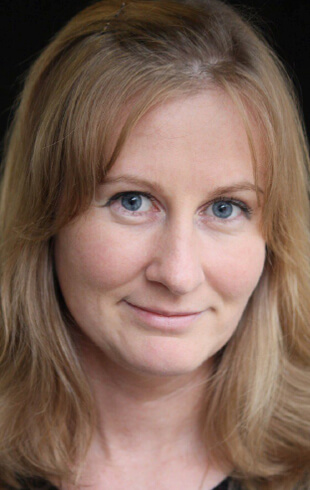
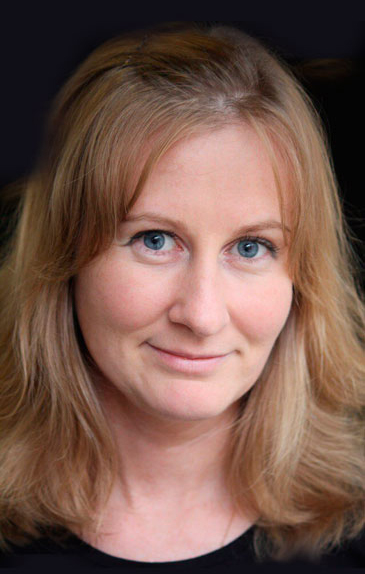
Update colors
+ update Lapina’s photo

diff --git a/src/less/main.less b/src/less/main.less
@@ -29,8 +29,8 @@ a.btn:hover {
   border-width: 60px 50vw 0 50vw;
   border-color: #000000 transparent transparent transparent;
   line-height: 0px;
-  _border-color: #000000 #ffffff #ffffff #ffffff;
-  _filter: progid:DXImageTransform.Microsoft.Chroma(color='#ffffff');
+  _border-color: #000000 #000000 #000000 #000000;
+  _filter: progid:DXImageTransform.Microsoft.Chroma(color='#000000');
   margin-bottom: -60px;
   z-index: 700;
   position: relative;
@@ -45,9 +45,9 @@ a.btn:hover {
   height: 0;
   border-style: solid;
   border-width: 0 50vw 60px 0px;
-  border-color: transparent transparent #ffffff transparent;
+  border-color: transparent transparent #000000 transparent;
   line-height: 0px;
-  _border-color: #000000 #000000 #ffffff #000000;
+  _border-color: #000000 #000000 #000000 #000000;
   _filter: progid:DXImageTransform.Microsoft.Chroma(color='#000000');
   z-index: 600;
   position: relative;
@@ -60,9 +60,9 @@ a.btn:hover {
   height: 0;
   border-style: solid;
   border-width: 0 0px 60px 50vw;
-  border-color: transparent transparent #ffffff transparent;
+  border-color: transparent transparent #000000 transparent;
   line-height: 0px;
-  _border-color: #000000 #000000 #ffffff #000000;
+  _border-color: #000000 #000000 #000000 #000000;
   _filter: progid:DXImageTransform.Microsoft.Chroma(color='#000000');
   z-index: 600;
   position: relative;
@@ -81,6 +81,13 @@ a.btn:hover {
   .col-md-4 {
     padding-left: 0px;
   }
+
+  .lapina__photo {
+    background: url(../img/lapina.jpg) no-repeat center;
+    background-size: cover;
+    padding-bottom: 57%;
+  }
+
   h2 {
     text-align: left;
     margin-top: 60px;
@@ -120,7 +127,7 @@ span {
 }
 
 #partners h2, #contacts h2, #roots h2 {
-  color: #002b4f;
+  color: #fff;
 }
 
 .thank {

diff --git a/src/less/common.less b/src/less/common.less
@@ -4,7 +4,8 @@ body, h1, h2 {
 
 body {
   padding-bottom: 40px;
-  color: #5a5a5a;
+  color: #fff;
+  background-color: #000;
 }
 
 .btn {
@@ -19,7 +20,7 @@ p {
   line-height: 160%;
   font-size: 16px;
   padding-bottom: 15px;
-  word-break: break-all;
+  hyphens: auto;
 }
 
 hr {
@@ -34,6 +35,10 @@ hr {
 h1 {
   font-size: 46px;
   font-weight: normal;
+
+  .small {
+    color: inherit;
+  }
 }
 
 h2 {

diff --git a/src/details/styles.less b/src/details/styles.less
@@ -107,6 +107,7 @@
       line-height: 1.2;
       word-break: normal;
       text-align: left;
+      color: #000;
     }
 
     .content {
